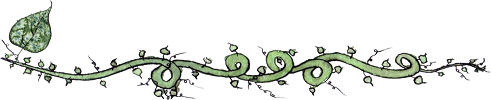
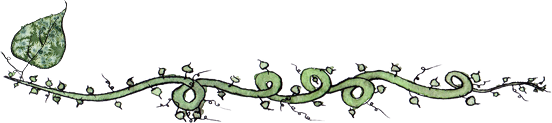
Make leaf larger on 3S divider.

diff --git a/web/into_the_woodstock/style.css b/web/into_the_woodstock/style.css
@@ -92,13 +92,13 @@ body.puzzle {
   padding: 0 1em;
 }
 #link {
-  left: 300px; top: 100px;
+  left: 300px; top: 110px;
 }
 .ptitle {
   position: relative; /* put in front of banner */
   z-index: 99;        /* put in front of banner */
-  height: 100px;
   background: url('divider.png') no-repeat;
-  padding: 0px 0 0 65px;
-  margin: 0 0 0px -20px;
+  height: 123px;
+  padding: 14px 0 0 78px;
+  margin: -5px 0 -14px -20px;
 }
